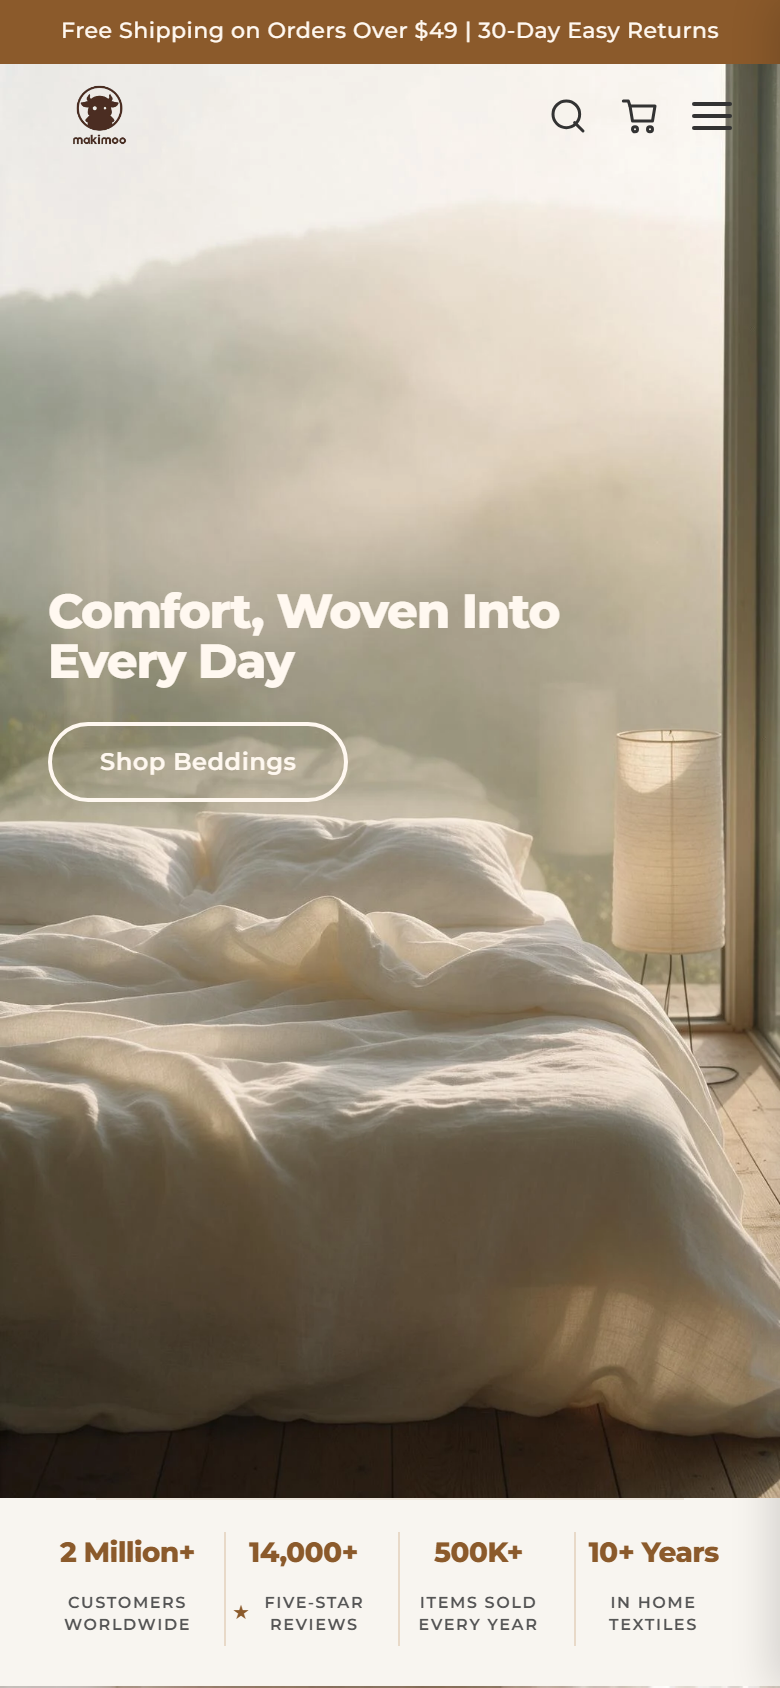
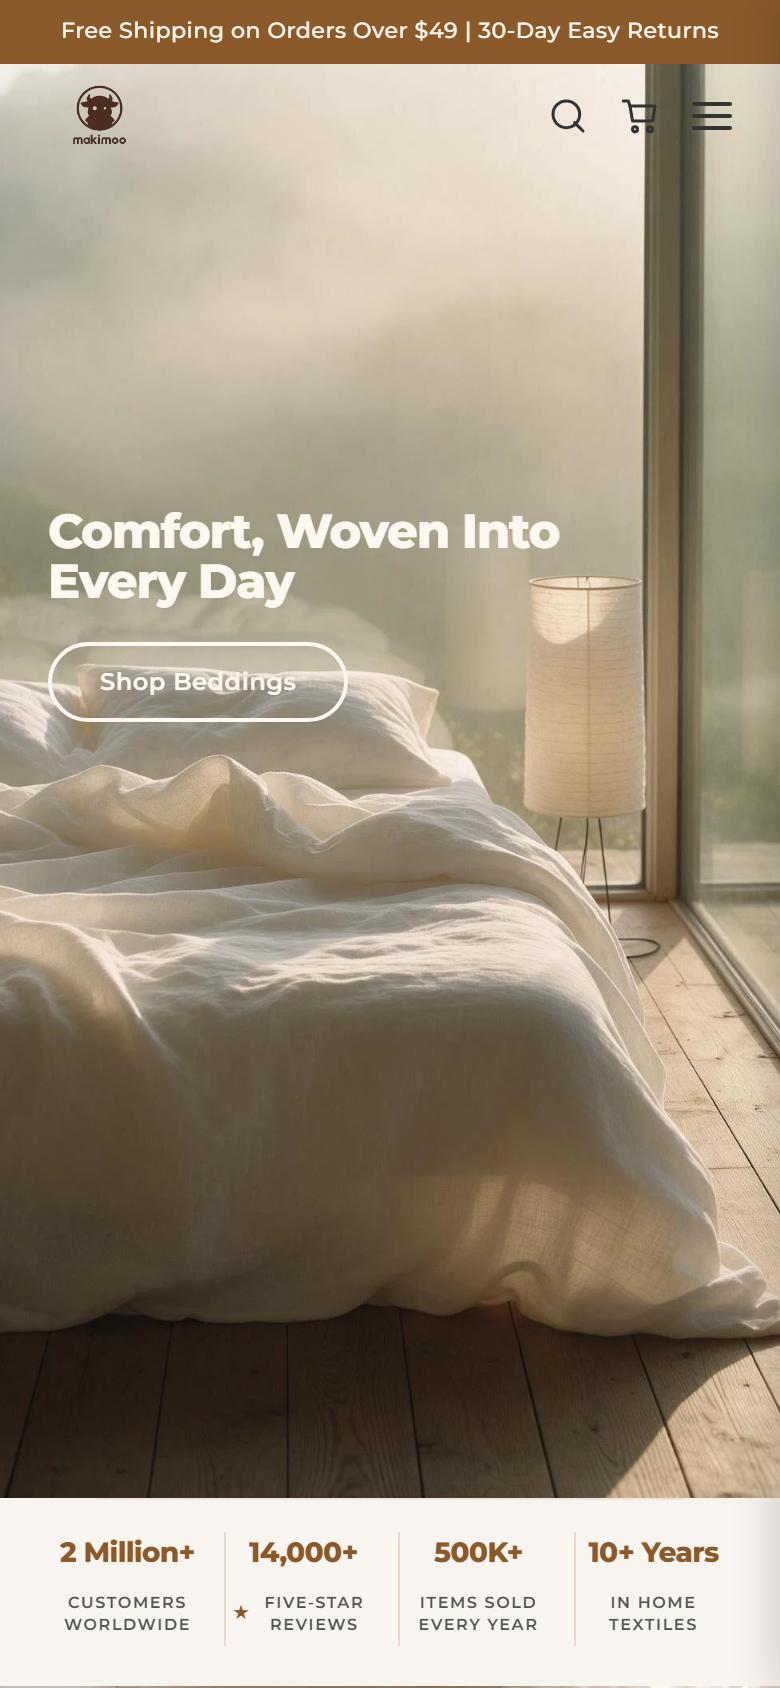
feat(home-hero): 移动端 hero 换图(2)并上移文字按键
- 移动端 hero 图替换为 993x1792 版本，原样使用无剪裁
- 移动端文字+按键上移 90px（pb 9svh+90px），避开枕头区域

diff --git a/src/data/product-weights.ts b/src/data/product-weights.ts
@@ -1,6 +1,6 @@
 // Auto-generated by scripts/build-weights.js
 // DO NOT EDIT MANUALLY - 人工赋权改 src/data/weights-overrides.ts 后重跑本脚本
-// Generated at: 2026-10-27T16:39:11.495Z
+// Generated at: 2026-10-27T18:06:09.156Z
 
 export interface ProductWeight {
   /** 一级类目（同分破平用类目平均分） */
@@ -22,7 +22,7 @@ export interface ProductWeight {
 export const PRODUCT_WEIGHTS: Record<string, ProductWeight> = {
   "b098f1bkjq": {"type":"Decor","score":17.7,"perf":17.7,"boost":0},
   "b0bcjqyyl1": {"type":"Cushions","score":21,"perf":21,"boost":0},
-  "b0cqc6h9mz": {"type":"Pillows","score":51.8,"perf":21.8,"boost":30},
+  "b0cqc6h9mz": {"type":"Pillows","score":51.7,"perf":21.7,"boost":30},
   "b0c33lfhn1": {"type":"Cushions","score":21,"perf":21,"boost":0},
   "b0c33lpy5g": {"type":"Cushions","score":21,"perf":21,"boost":0},
   "b0c33lxrvk": {"type":"Cushions","score":21,"perf":21,"boost":0},
@@ -43,8 +43,8 @@ export const PRODUCT_WEIGHTS: Record<string, ProductWeight> = {
   "b0cc5vnqy3": {"type":"Cushions","score":21,"perf":21,"boost":0},
   "b0cc5wn6jj": {"type":"Cushions","score":21,"perf":21,"boost":0},
   "b0cc5y77dc": {"type":"Cushions","score":21,"perf":21,"boost":0},
-  "b0cqbzm49v": {"type":"Pillows","score":21.8,"perf":21.8,"boost":0},
-  "b0cqc5qjfj": {"type":"Pillows","score":21.8,"perf":21.8,"boost":0},
+  "b0cqbzm49v": {"type":"Pillows","score":21.7,"perf":21.7,"boost":0},
+  "b0cqc5qjfj": {"type":"Pillows","score":21.7,"perf":21.7,"boost":0},
   "b0by8ly757": {"type":"Decor","score":14.1,"perf":14.1,"boost":0},
   "b0cxdzf2wq": {"type":"Cushions","score":21,"perf":21,"boost":0},
   "b0d5dnwx8j": {"type":"Cushions","score":21,"perf":21,"boost":0},
@@ -64,7 +64,7 @@ export const PRODUCT_WEIGHTS: Record<string, ProductWeight> = {
   "mk-pc-cord-dustyrose": {"type":"Pillows","score":25.6,"perf":25.6,"boost":0},
   "mk-pc-cord-dustyrose-45": {"type":"Pillows","score":26,"perf":26,"boost":0},
   "mk-pc-cord-olive": {"type":"Pillows","score":26,"perf":26,"boost":0},
-  "mk-pc-cord-olive-45": {"type":"Pillows","score":26.3,"perf":26.3,"boost":0},
+  "mk-pc-cord-olive-45": {"type":"Pillows","score":26.2,"perf":26.2,"boost":0},
   "mk-pc-cord-dustyblue": {"type":"Pillows","score":26.4,"perf":26.4,"boost":0},
   "mk-pc-cord-dustyblue-45": {"type":"Pillows","score":26.1,"perf":26.1,"boost":0},
   "mk-pc-cord-charcoal": {"type":"Pillows","score":25.8,"perf":25.8,"boost":0},
@@ -116,8 +116,8 @@ export const PRODUCT_WEIGHTS: Record<string, ProductWeight> = {
   "mk-towel-lsc-dustyblue-30x56": {"type":"Towels","score":16,"perf":16,"boost":0},
   "mk-towel-lsc-dustyblue-40x70": {"type":"Towels","score":16,"perf":16,"boost":0},
   "linen3-caramel-queen": {"type":"Bedding","score":9.7,"perf":9.7,"boost":0},
-  "b0f62y3xt9": {"type":"Pillows","score":21.8,"perf":21.8,"boost":0},
-  "b0f62zy8zn": {"type":"Pillows","score":21.8,"perf":21.8,"boost":0},
+  "b0f62y3xt9": {"type":"Pillows","score":21.7,"perf":21.7,"boost":0},
+  "b0f62zy8zn": {"type":"Pillows","score":21.7,"perf":21.7,"boost":0},
   "b0gjlpxb6f": {"type":"Cushions","score":45.8,"perf":21.8,"boost":24},
   "b0gjlrgvdj": {"type":"Cushions","score":20.4,"perf":20.4,"boost":0},
   "b0gjsttgy5": {"type":"Cushions","score":20.4,"perf":20.4,"boost":0},
@@ -125,7 +125,7 @@ export const PRODUCT_WEIGHTS: Record<string, ProductWeight> = {
   "b0f1v8vmp4": {"type":"Cushions","score":22.4,"perf":22.4,"boost":0},
   "b0dsgfxldv": {"type":"Cushions","score":19,"perf":19,"boost":0},
   "b0dsgclbvw": {"type":"Cushions","score":19,"perf":19,"boost":0},
-  "b0f62qgv32": {"type":"Pillows","score":21.8,"perf":21.8,"boost":0},
+  "b0f62qgv32": {"type":"Pillows","score":21.7,"perf":21.7,"boost":0},
   "b0dsgckwxw": {"type":"Cushions","score":19,"perf":19,"boost":0},
   "b0cbt8fzwf": {"type":"Cushions","score":19,"perf":19,"boost":0},
   "b0gxwm4n7j": {"type":"Pillows","score":22.5,"perf":22.5,"boost":0},
@@ -146,7 +146,7 @@ export const PRODUCT_WEIGHTS: Record<string, ProductWeight> = {
   "1038477616596": {"type":"Mats","score":20.9,"perf":20.9,"boost":0},
   "985677811504": {"type":"Mats","score":22.9,"perf":22.9,"boost":0},
   "1016436401519": {"type":"Mats","score":22.9,"perf":22.9,"boost":0},
-  "1038477616596-c2": {"type":"Mats","score":20.2,"perf":20.2,"boost":0},
+  "1038477616596-c2": {"type":"Mats","score":20.1,"perf":20.1,"boost":0},
   "895014679429": {"type":"Mats","score":21.5,"perf":21.5,"boost":0},
   "1046667161713": {"type":"Mats","score":22.2,"perf":22.2,"boost":0},
   "1064068114006": {"type":"Mats","score":23,"perf":23,"boost":0},
@@ -176,15 +176,15 @@ export const PRODUCT_WEIGHTS: Record<string, ProductWeight> = {
   "969627065032-c22": {"type":"Blankets","score":24.6,"perf":24.6,"boost":0},
   "969627065032-c21": {"type":"Blankets","score":24.6,"perf":24.6,"boost":0},
   "969627065032-c25": {"type":"Blankets","score":23.9,"perf":23.9,"boost":0},
-  "969627065032-c40": {"type":"Blankets","score":49,"perf":24,"boost":25},
+  "969627065032-c40": {"type":"Blankets","score":48.9,"perf":23.9,"boost":25},
   "969627065032-c39": {"type":"Blankets","score":24,"perf":24,"boost":0},
   "969627065032-c38": {"type":"Blankets","score":23.1,"perf":23.1,"boost":0},
   "969627065032-c37": {"type":"Blankets","score":24.5,"perf":24.5,"boost":0},
-  "969627065032-c36": {"type":"Blankets","score":23.2,"perf":23.2,"boost":0},
+  "969627065032-c36": {"type":"Blankets","score":23.1,"perf":23.1,"boost":0},
   "969627065032-c35": {"type":"Blankets","score":23.9,"perf":23.9,"boost":0},
   "969627065032-c34": {"type":"Blankets","score":23.7,"perf":23.7,"boost":0},
   "969627065032-c32": {"type":"Blankets","score":49,"perf":24,"boost":25},
-  "969627065032-c31": {"type":"Blankets","score":24,"perf":24,"boost":0},
+  "969627065032-c31": {"type":"Blankets","score":23.9,"perf":23.9,"boost":0},
   "969627065032-c30": {"type":"Blankets","score":23.8,"perf":23.8,"boost":0},
   "969627065032-c29": {"type":"Blankets","score":24.7,"perf":24.7,"boost":0},
   "969627065032-c28": {"type":"Blankets","score":48.8,"perf":23.8,"boost":25},
@@ -202,7 +202,7 @@ export const PRODUCT_WEIGHTS: Record<string, ProductWeight> = {
   "bedset4-beige-queen": {"type":"Bedding","score":41,"perf":14,"boost":27},
   "bedset4-beige-twin": {"type":"Bedding","score":14,"perf":14,"boost":0},
   "duvset-gray-king": {"type":"Bedding","score":24.6,"perf":24.6,"boost":0},
-  "duvset-gray-queen": {"type":"Bedding","score":56,"perf":26,"boost":30},
+  "duvset-gray-queen": {"type":"Bedding","score":55.9,"perf":25.9,"boost":30},
   "duvset-gray-full": {"type":"Bedding","score":24.6,"perf":24.6,"boost":0},
   "duvset-gray-twin": {"type":"Bedding","score":23,"perf":23,"boost":0},
   "duvset-pink-king": {"type":"Bedding","score":26.6,"perf":26.6,"boost":0},
@@ -221,7 +221,7 @@ export const PRODUCT_WEIGHTS: Record<string, ProductWeight> = {
   "bedset4-lilac-full": {"type":"Bedding","score":25.2,"perf":25.2,"boost":0},
   "bedset4-lilac-queen": {"type":"Bedding","score":26,"perf":26,"boost":0},
   "bedset4-lilac-king": {"type":"Bedding","score":24.1,"perf":24.1,"boost":0},
-  "bedset4-slate-twin": {"type":"Bedding","score":26.1,"perf":26.1,"boost":0},
+  "bedset4-slate-twin": {"type":"Bedding","score":26,"perf":26,"boost":0},
   "bedset4-slate-full": {"type":"Bedding","score":25.3,"perf":25.3,"boost":0},
   "bedset4-slate-queen": {"type":"Bedding","score":55.9,"perf":25.9,"boost":30},
   "bedset4-slate-king": {"type":"Bedding","score":26.1,"perf":26.1,"boost":0},
@@ -230,7 +230,7 @@ export const PRODUCT_WEIGHTS: Record<string, ProductWeight> = {
   "bedset4-tan-queen": {"type":"Bedding","score":26.1,"perf":26.1,"boost":0},
   "bedset4-tan-king": {"type":"Bedding","score":24,"perf":24,"boost":0},
   "bedset4-sage-twin": {"type":"Bedding","score":24.8,"perf":24.8,"boost":0},
-  "bedset4-sage-full": {"type":"Bedding","score":23.4,"perf":23.4,"boost":0},
+  "bedset4-sage-full": {"type":"Bedding","score":23.3,"perf":23.3,"boost":0},
   "bedset4-sage-queen": {"type":"Bedding","score":55.2,"perf":25.2,"boost":30},
   "bedset4-sage-king": {"type":"Bedding","score":24.7,"perf":24.7,"boost":0},
   "bedset4-mauve-twin": {"type":"Bedding","score":23.3,"perf":23.3,"boost":0},
@@ -239,17 +239,17 @@ export const PRODUCT_WEIGHTS: Record<string, ProductWeight> = {
   "bedset4-mauve-king": {"type":"Bedding","score":23.3,"perf":23.3,"boost":0},
   "bedset4-moss-twin": {"type":"Bedding","score":23.3,"perf":23.3,"boost":0},
   "bedset4-moss-full": {"type":"Bedding","score":24.1,"perf":24.1,"boost":0},
-  "bedset4-moss-queen": {"type":"Bedding","score":54.9,"perf":24.9,"boost":30},
+  "bedset4-moss-queen": {"type":"Bedding","score":54.8,"perf":24.8,"boost":30},
   "bedset4-moss-king": {"type":"Bedding","score":23.3,"perf":23.3,"boost":0},
   "bedset4-coffee-twin": {"type":"Bedding","score":23.2,"perf":23.2,"boost":0},
   "bedset4-coffee-full": {"type":"Bedding","score":24,"perf":24,"boost":0},
-  "bedset4-coffee-queen": {"type":"Bedding","score":53.4,"perf":23.4,"boost":30},
-  "bedset4-coffee-king": {"type":"Bedding","score":26.9,"perf":26.9,"boost":0},
+  "bedset4-coffee-queen": {"type":"Bedding","score":53.3,"perf":23.3,"boost":30},
+  "bedset4-coffee-king": {"type":"Bedding","score":26.8,"perf":26.8,"boost":0},
   "bedset4-blue-twin": {"type":"Bedding","score":26.8,"perf":26.8,"boost":0},
   "bedset4-blue-full": {"type":"Bedding","score":24.8,"perf":24.8,"boost":0},
   "bedset4-blue-queen": {"type":"Bedding","score":53.3,"perf":23.3,"boost":30},
   "bedset4-blue-king": {"type":"Bedding","score":24.8,"perf":24.8,"boost":0},
-  "bedset4-plaid-twin": {"type":"Bedding","score":25.4,"perf":25.4,"boost":0},
+  "bedset4-plaid-twin": {"type":"Bedding","score":25.3,"perf":25.3,"boost":0},
   "bedset4-plaid-full": {"type":"Bedding","score":23.3,"perf":23.3,"boost":0},
   "bedset4-plaid-queen": {"type":"Bedding","score":54,"perf":24,"boost":30},
   "bedset4-plaid-king": {"type":"Bedding","score":53.3,"perf":23.3,"boost":30},
@@ -267,22 +267,22 @@ export const PRODUCT_WEIGHTS: Record<string, ProductWeight> = {
   "linen3-dustyblue-king": {"type":"Bedding","score":25.7,"perf":25.7,"boost":0},
   "linen3-ivory-twin": {"type":"Bedding","score":25.7,"perf":25.7,"boost":0},
   "linen3-ivory-full": {"type":"Bedding","score":27.1,"perf":27.1,"boost":0},
-  "linen3-ivory-queen": {"type":"Bedding","score":57.2,"perf":27.2,"boost":30},
+  "linen3-ivory-queen": {"type":"Bedding","score":57.1,"perf":27.1,"boost":30},
   "linen3-ivory-king": {"type":"Bedding","score":27,"perf":27,"boost":0},
   "linen3-oatmeal-twin": {"type":"Bedding","score":27.2,"perf":27.2,"boost":0},
   "linen3-oatmeal-full": {"type":"Bedding","score":25.7,"perf":25.7,"boost":0},
   "linen3-oatmeal-queen": {"type":"Bedding","score":56.4,"perf":26.4,"boost":30},
-  "linen3-oatmeal-king": {"type":"Bedding","score":27,"perf":27,"boost":0},
+  "linen3-oatmeal-king": {"type":"Bedding","score":26.9,"perf":26.9,"boost":0},
   "899672152256-c2": {"type":"Decor","score":25.9,"perf":25.9,"boost":0},
   "899672152256-c13": {"type":"Decor","score":24.5,"perf":24.5,"boost":0},
   "899672152256-c22": {"type":"Decor","score":26.7,"perf":26.7,"boost":0},
   "899672152256-c33": {"type":"Decor","score":27.2,"perf":27.2,"boost":0},
-  "899672152256-c42": {"type":"Decor","score":27.5,"perf":27.5,"boost":0},
+  "899672152256-c42": {"type":"Decor","score":27.4,"perf":27.4,"boost":0},
   "899672152256-c52": {"type":"Decor","score":26.6,"perf":26.6,"boost":0},
   "899672152256-c61": {"type":"Decor","score":27.4,"perf":27.4,"boost":0},
   "899672152256-c70": {"type":"Decor","score":26,"perf":26,"boost":0},
   "899672152256-c78": {"type":"Decor","score":25.9,"perf":25.9,"boost":0},
-  "899672152256-c85": {"type":"Decor","score":26,"perf":26,"boost":0},
+  "899672152256-c85": {"type":"Decor","score":25.9,"perf":25.9,"boost":0},
   "743606980882-c2": {"type":"Decor","score":22,"perf":22,"boost":0},
   "743606980882-c10": {"type":"Decor","score":26.7,"perf":26.7,"boost":0},
   "743606980882-c20": {"type":"Decor","score":27.4,"perf":27.4,"boost":0},
@@ -290,7 +290,7 @@ export const PRODUCT_WEIGHTS: Record<string, ProductWeight> = {
   "743606980882-c41": {"type":"Decor","score":26,"perf":26,"boost":0},
   "743606980882-c52": {"type":"Decor","score":26.7,"perf":26.7,"boost":0},
   "743606980882-c61": {"type":"Decor","score":25.9,"perf":25.9,"boost":0},
-  "743606980882-c71": {"type":"Decor","score":26,"perf":26,"boost":0},
+  "743606980882-c71": {"type":"Decor","score":25.9,"perf":25.9,"boost":0},
   "743606980882-c80": {"type":"Decor","score":26.6,"perf":26.6,"boost":0},
   "743606980882-c89": {"type":"Decor","score":25.9,"perf":25.9,"boost":0},
   "663341114084-c2": {"type":"Decor","score":27.3,"perf":27.3,"boost":0},
@@ -306,7 +306,7 @@ export const PRODUCT_WEIGHTS: Record<string, ProductWeight> = {
   "1052742241013-c9": {"type":"Mats","score":24.9,"perf":24.9,"boost":0},
   "1052742241013-c8": {"type":"Mats","score":26.4,"perf":26.4,"boost":0},
   "1052742241013-c7": {"type":"Mats","score":24.9,"perf":24.9,"boost":0},
-  "730512046265-c19": {"type":"Decor","score":27,"perf":27,"boost":0},
+  "730512046265-c19": {"type":"Decor","score":26.9,"perf":26.9,"boost":0},
   "730512046265-c18": {"type":"Decor","score":25.8,"perf":25.8,"boost":0},
   "730512046265-c17": {"type":"Decor","score":28.5,"perf":28.5,"boost":0},
   "730512046265-c16": {"type":"Decor","score":27,"perf":27,"boost":0},
@@ -322,7 +322,7 @@ export const PRODUCT_WEIGHTS: Record<string, ProductWeight> = {
   "linen3-dustyblue-duvet": {"type":"Bedding","score":12.7,"perf":12.7,"boost":0},
   "linen3-ivory-duvet": {"type":"Bedding","score":12.7,"perf":12.7,"boost":0},
   "duvset-gray-duvet": {"type":"Bedding","score":6,"perf":6,"boost":0},
-  "duvset-beanred-twin": {"type":"Bedding","score":23.8,"perf":23.8,"boost":0},
+  "duvset-beanred-twin": {"type":"Bedding","score":23.7,"perf":23.7,"boost":0},
   "duvset-beanred-full": {"type":"Bedding","score":23,"perf":23,"boost":0},
   "duvset-beanred-queen": {"type":"Bedding","score":22.9,"perf":22.9,"boost":0},
   "duvset-beanred-king": {"type":"Bedding","score":24.2,"perf":24.2,"boost":0},

diff --git a/src/components/v2/V2Hero.tsx b/src/components/v2/V2Hero.tsx
@@ -33,10 +33,10 @@ export default function V2Hero() {
         {/* 渐变暗罩：2026-10-27 用户定全端去除（桌面配深炭色导航；移动端文字压在薄雾/床品上直读） */}
       </div>
 
-      {/* Text content：移动端 justify-center + pb-[calc(9svh+10px)]；
+      {/* Text content：移动端 justify-center + pb-[calc(9svh+90px)]；
           桌面端 2026-10-27 用户定：锚定视口左侧 lg:px-[7vw]（废弃 max-w-1400 居中 + min() 抵消方案——
           不同分辨率下位置乱跳，窄屏甚至反向右移）；字号流式 clamp 随分辨率缩放；底部 justify-end + 上移 70px */}
-      <div className="relative z-10 h-full max-w-[1400px] mx-auto px-6 flex flex-col justify-center pb-[calc(9svh+10px)] lg:max-w-none lg:px-[7vw] lg:-translate-y-[70px] lg:justify-end lg:pb-[8vh]">
+      <div className="relative z-10 h-full max-w-[1400px] mx-auto px-6 flex flex-col justify-center pb-[calc(9svh+90px)] lg:max-w-none lg:px-[7vw] lg:-translate-y-[70px] lg:justify-end lg:pb-[8vh]">
         <h1
           className="text-2xl sm:text-3xl lg:text-[clamp(2rem,2.6vw,3rem)] lg:leading-[1.05] font-extrabold tracking-tight leading-[1.05] text-cream max-w-3xl mb-[18px] lg:mb-7 animate-fade-in-up"
         >

diff --git a/src/data/shopify-map.ts b/src/data/shopify-map.ts
@@ -1,6 +1,6 @@
 // Auto-generated by scripts/build-shopify-map.js
 // DO NOT EDIT MANUALLY - Run 'node scripts/build-shopify-map.js' to update
-// Generated at: 2026-10-27T16:39:10.648Z
+// Generated at: 2026-10-27T18:06:08.392Z
 
 export interface ShopifyProductEntry {
   variantId: string;
